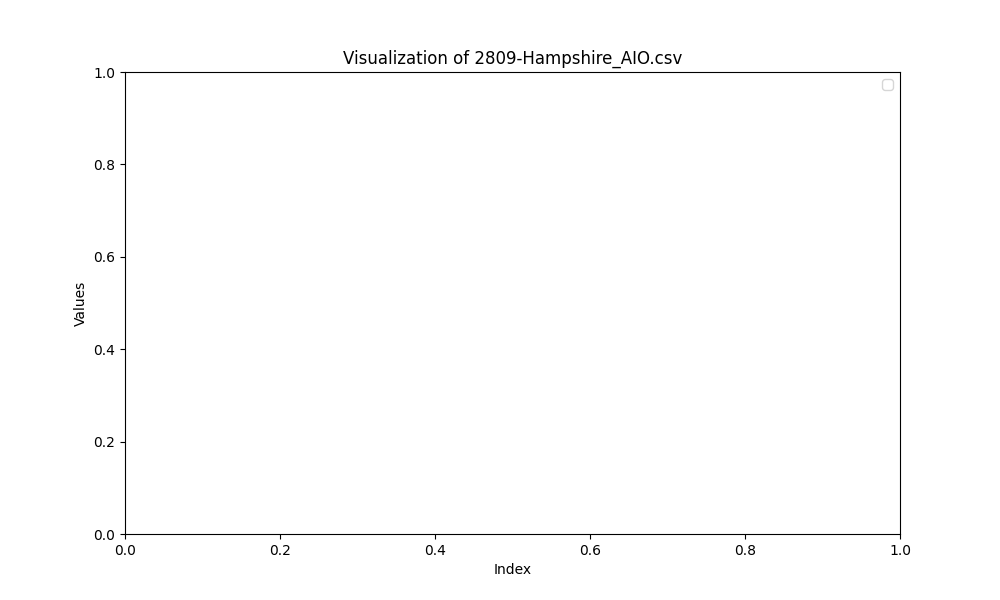
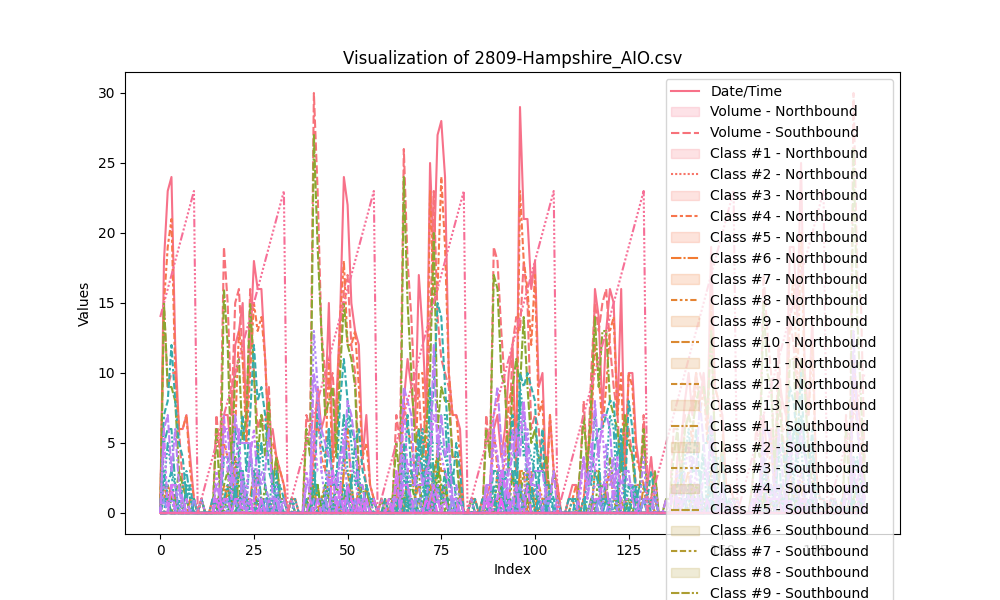
data on the graphs

diff --git a/traffic_analysis.py b/traffic_analysis.py
@@ -2,6 +2,7 @@ import os
 import pandas as pd
 import seaborn as sns
 import matplotlib.pyplot as plt
+import re  # Import regex for parsing
 
 # Set the directory containing the CSV files
 data_directory = 'data'
@@ -18,21 +19,35 @@ for filename in os.listdir(data_directory):
         # Read the CSV file
         file_path = os.path.join(data_directory, filename)
         try:
-            data = pd.read_csv(file_path, on_bad_lines='skip')  # Skip bad lines
+            # Read the first 14 lines to extract metadata
+            with open(file_path, 'r') as file:
+                header_lines = [next(file) for _ in range(14)]
+            
+            # Parse the required information
+            location = re.search(r'Location:\s*(.*)', header_lines[3]).group(1).strip()
+            comments = re.search(r'Comments:\s*(.*)', header_lines[4]).group(1).strip()
+            title = re.search(r'Title:\s*(.*)', header_lines[13]).group(1).strip()
+            
+            # Read the actual data starting from line 15
+            data = pd.read_csv(file_path, skiprows=14, on_bad_lines='skip')  # Skip bad lines
+            
+            # Parse the 'Date/Time' column for date and hour
+            data['Date'] = pd.to_datetime(data['Date/Time']).dt.date
+            data['Hour'] = pd.to_datetime(data['Date/Time']).dt.hour
+            
+            # Create a simple visualization
+            plt.figure(figsize=(10, 6))
+            sns.lineplot(data=data)
+            plt.title(f'Visualization of {filename}')
+            plt.xlabel('Index')
+            plt.ylabel('Values')
+            plt.legend(data.columns)
+
+            # Save the figure instead of showing it
+            output_file = os.path.join(output_directory, f'{filename}.png')  # Save to output directory
+            plt.savefig(output_file)
+            plt.close()  # Close the figure to free memory
         except pd.errors.ParserError as e:
             with open(error_log_file, 'a') as log_file:
                 log_file.write(f"Error reading {filename}: {e}\n")
             continue  # Skip to the next file if there's an error
-
-        # Create a simple visualization
-        plt.figure(figsize=(10, 6))
-        sns.lineplot(data=data)
-        plt.title(f'Visualization of {filename}')
-        plt.xlabel('Index')
-        plt.ylabel('Values')
-        plt.legend(data.columns)
-
-        # Save the figure instead of showing it
-        output_file = os.path.join(output_directory, f'{filename}.png')  # Save to output directory
-        plt.savefig(output_file)
-        plt.close()  # Close the figure to free memory
